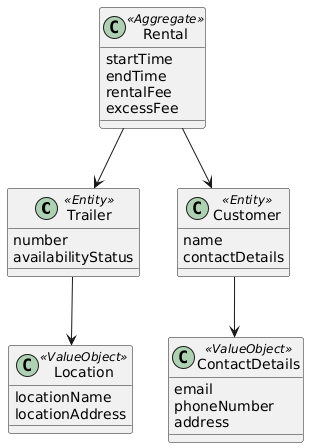
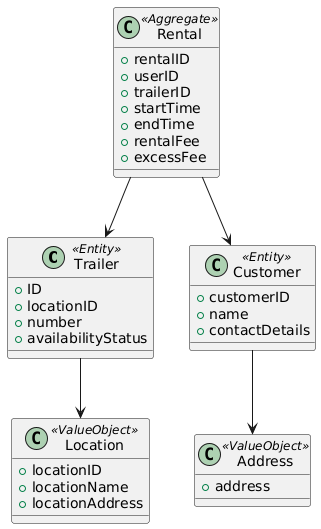
Docs

Changed region(s): [[0.0, 0.0, 0.9903, 1.0]]

diff --git a/README.md b/README.md
@@ -68,7 +68,7 @@ The core of MyTrailer is the trailer rental process, including booking, insuranc
 - **Company Partnerships**: Manages agreements with the companies offering trailer parking space.
 
 ### Bounded Context Diagram
-This diagram shows the different bounded contexts and their relationships. This is an exampel of a more complete system with payment and partners.
+This diagram shows the different bounded contexts and their relationships. This is an example of a more complete system with payment and partners.
 
 ![image](docs/models/bcd.png)
 
@@ -87,8 +87,8 @@ This diagram shows the different bounded contexts and their relationships. This 
 - **Entity: Customer**
   - Properties: `name`
 
-- **Value Object: ContactDetails**
-  - Properties: `email`, `phoneNumber`, `address`
+- **Value Object: Address**
+  - Properties: `address`
 
 - **Value Object: Location**
   - Properties: `locationName`, `locationAddress`
@@ -111,7 +111,7 @@ Since the system has several independent components (rental, payment, partnershi
 
 ### C4 Diagrams
 
-We chose the **Context** and **Component** diagrams because they provide the right balance of abstraction for this project. The Context diagram helps us visualize how the system interacts with external actors, while the Component diagram shows the internal structure of key services. This allows us to focus on system design without getting too detailed or technical, making it suitable for this small project within the given timeframe.
+We chose the **Context** and **Component** diagrams because they provide the right balance of abstraction for this project. The Context diagram is examples of the system if we wanted to scale it in the fure and it helps us visualize how the system interacts with external actors, while the Component diagram shows the internal structure of key services. This allows us to focus on system design without getting too detailed or technical, making it suitable for this small project within the given timeframe.
 
 - **System Architecture**: The MyTrailer system consists of several services, including rental, user and with further development payment, and partnership services.
 ![image](docs/models/architecture_diagram.png)
